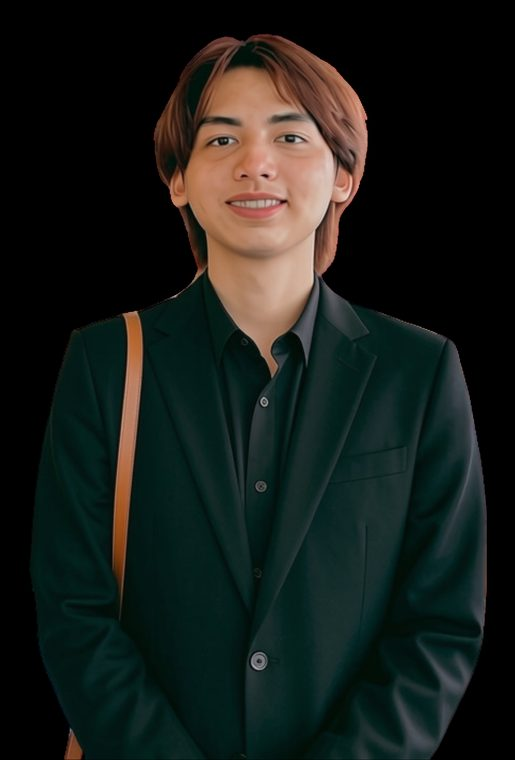
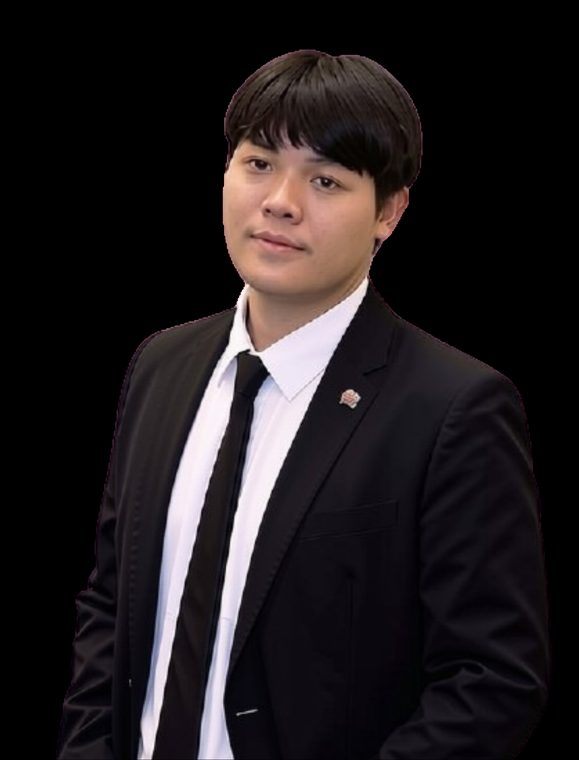
Add two new team members (white-bg removed), now 13 people
The two new portraits (grey-suit man, white-polo woman) came on white
backgrounds; removed the background with rembg and composited them on the brand
black so they match the other studio shots. Reordered the team to 13: the woman
in the first tall card, the man in the second tall card (as requested), with the
existing 11 following. Rebuilt the bento loop for 13 (+13 clones) with the tall
pattern {0,3,6,9,12} that tiles into full columns.

Claude-Session: https://claude.ai/code/session_012zfNThtvKPdpajQpBbK3KB

diff --git a/index.html b/index.html
@@ -1122,8 +1122,14 @@
         <button class="team-card tall" type="button" data-idx="9">
           <span class="tph"><img src="team/10.jpg" alt="" loading="lazy"></span>
         </button>
-        <button class="team-card tall" type="button" data-idx="10">
+        <button class="team-card" type="button" data-idx="10">
           <span class="tph"><img src="team/11.jpg" alt="" loading="lazy"></span>
+        </button>
+        <button class="team-card" type="button" data-idx="11">
+          <span class="tph"><img src="team/12.jpg" alt="" loading="lazy"></span>
+        </button>
+        <button class="team-card tall" type="button" data-idx="12">
+          <span class="tph"><img src="team/13.jpg" alt="" loading="lazy"></span>
         </button>
         <button class="team-card tall" type="button" data-idx="0" aria-hidden="true" tabindex="-1">
           <span class="tph"><img src="team/1.jpg" alt="" loading="lazy"></span>
@@ -1155,8 +1161,14 @@
         <button class="team-card tall" type="button" data-idx="9" aria-hidden="true" tabindex="-1">
           <span class="tph"><img src="team/10.jpg" alt="" loading="lazy"></span>
         </button>
-        <button class="team-card tall" type="button" data-idx="10" aria-hidden="true" tabindex="-1">
+        <button class="team-card" type="button" data-idx="10" aria-hidden="true" tabindex="-1">
           <span class="tph"><img src="team/11.jpg" alt="" loading="lazy"></span>
+        </button>
+        <button class="team-card" type="button" data-idx="11" aria-hidden="true" tabindex="-1">
+          <span class="tph"><img src="team/12.jpg" alt="" loading="lazy"></span>
+        </button>
+        <button class="team-card tall" type="button" data-idx="12" aria-hidden="true" tabindex="-1">
+          <span class="tph"><img src="team/13.jpg" alt="" loading="lazy"></span>
         </button>
         </div>
       </div>
